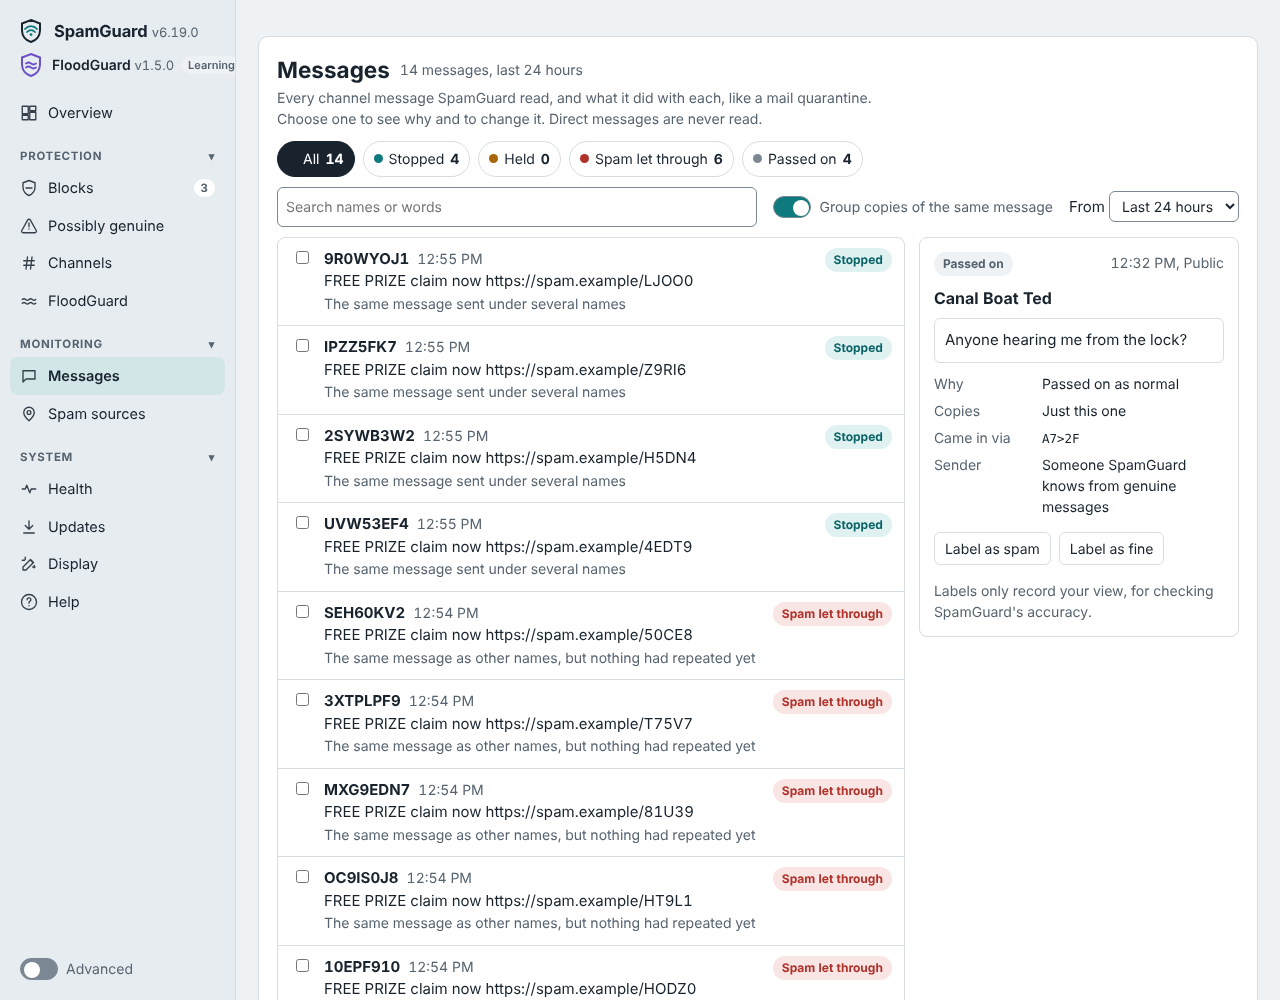
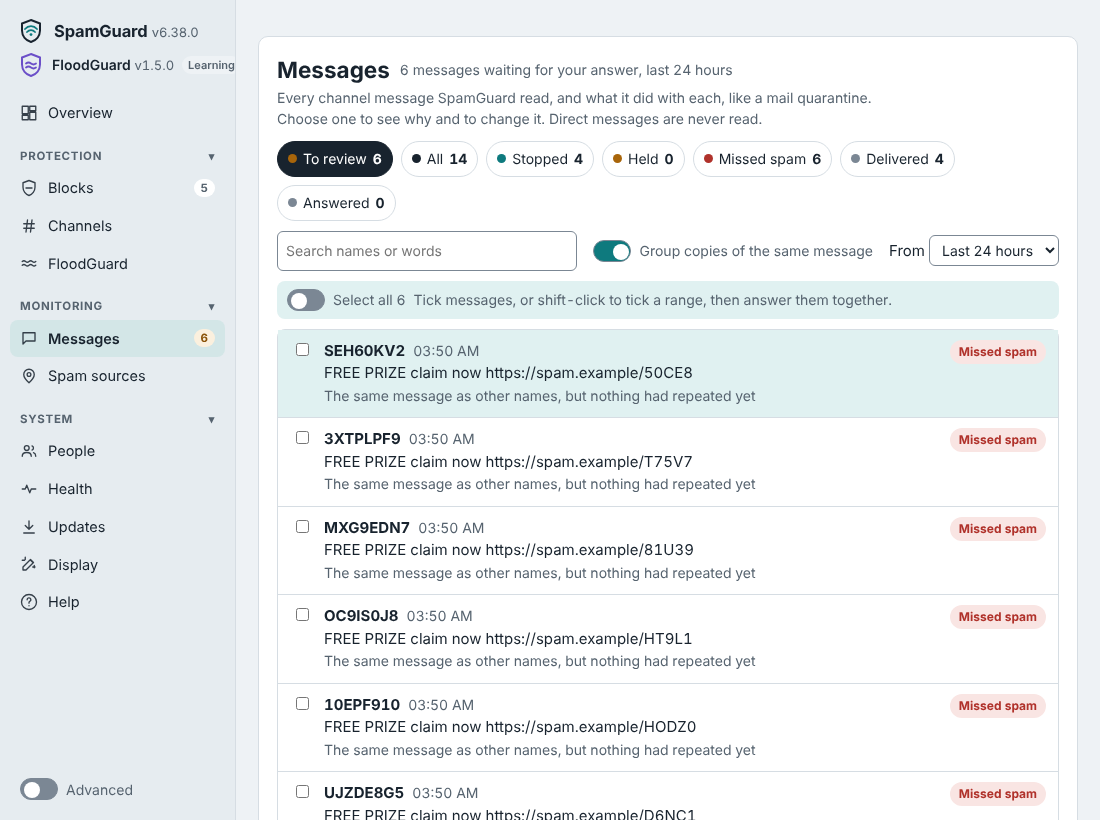
Docs: People, Spoofed, channels and export; new screenshots (#98)
Claude-Session: https://claude.ai/code/session_01Pgqm4Xa1efNsThaFFNfH7N

diff --git a/README.md b/README.md
@@ -42,6 +42,12 @@ Most MeshCore spam tools either hide spam on your own phone, while the mesh stil
 - **Copies and repeats:** copy-paste floods, one name repeating itself (quickly or all day), replays of old messages, and accidental double sends counted with the airtime they use.
 - **Ways round a filter:** made-up codes on the end, rotating mentions, the same link reworded, bursts, link campaigns across names, and copied names.
 - **Lockdown:** in a heavy attack, only known people get through for a while.
+- **Copied names:** answer **Spoofed** on a message that uses a real person's name; the copy is dealt with and the real person is left alone.
+
+**People and channels**
+- **People page:** who SpamGuard knows, how each name usually reaches you, and a plain-words standing for each. Throwaway names drop off by themselves, and a name you doubt can be put **on watch** and comes off again on its own.
+- **Every channel or one:** your own blocks and mutes can cover every channel, and each channel has its own **Block spam here** switch.
+- **Two repeaters, one set of decisions:** export your blocks and exceptions from one SpamGuard and import them into another.
 
 **FloodGuard: airtime**
 - **Floods of any packet type**, judged by how busy the radio is, not who sent them. Direct messages and known people always get through.
@@ -53,7 +59,7 @@ Most MeshCore spam tools either hide spam on your own phone, while the mesh stil
 **Help with settings**
 - **Settings advisor:** once it has seen a few settled days of your traffic, it suggests a protection level and which experiments are worth switching on, with the reason. It changes nothing by itself unless you switch on **Auto** under the slider, which then moves the level in small steps (tightening quickly, loosening slowly, never above a ceiling you can set, and stopping the moment you drag the slider yourself). Moving the slider only previews a level; an **Apply** button saves it, so a stray touch on a phone can't change it.
 - **Bots kept off Public and repeat sends stopped**, on by default, both with a switch in Settings.
-- **Experimental features**, hidden until you ask for them. Each is off by default. Today: spot copied names, and spot reworded spam from your own marks.
+- **Experimental features**, hidden until you ask for them. Each is off by default. Today they include spotting copied names, spotting reworded spam from your own marks, and a note on whether a route looks genuine.
 
 **Principles**
 - **Spam, not opinions:** it stops how spam is sent, never what people say.
@@ -62,6 +68,8 @@ Most MeshCore spam tools either hide spam on your own phone, while the mesh stil
 ![SpamGuard's Overview: mode, protection level and the spam numbers, each of which opens the matching messages (example data)](docs/screenshot-overview.png)
 
 ![Messages: every channel message in one quarantine list, with what SpamGuard did and why (example data)](docs/screenshot-messages.png)
+
+![People: everyone SpamGuard has heard, with a plain-words standing for each (example data)](docs/screenshot-people.png)
 
 ![The protection level slider, with what each level would have held on this repeater's own traffic (example data)](docs/screenshot-level.png)
 
@@ -125,6 +133,10 @@ How well does it work, and what does it get wrong? See the [test results](docs/p
 | Get a suggestion for your settings | Open **Settings advisor** on the Overview |
 | Make it gentler or tougher | Slide the **Protection level** on the Overview; open "What this level would have done" to see the effect on your own traffic |
 | Stop something it missed | In **Messages**, open it and press **Spam** |
+| Someone is using a real person's name | In **Messages**, open the message and press **Spoofed** |
+| See who SpamGuard knows, trust or doubt someone | Open **People**: search, filter, then **Trust**, **Put on watch** or **Forget** |
+| Read a channel without blocking on it | **Channels**: switch off **Block spam here** for that channel |
+| Copy your decisions to another SpamGuard | Advanced > Settings: **Export** on one, **Import** on the other |
 | Ride out a heavy attack | Press **Lockdown** at the bottom of Blocks (30 min to 2 hours, ends by itself) |
 | See where spam comes from | Open **Spam sources** in the menu |
 | Pause all blocking | Press **Pause** on the Overview |

diff --git a/docs/glossary.md b/docs/glossary.md
@@ -16,6 +16,8 @@ MeshCore radios pass messages on for each other: a message sent on a **channel**
 | **Unscoped** | A flood packet sent without a region. `flood.max.unscoped` is MeshCore's limit on how many hops those may travel; FloodGuard keeps the same kind of limit. |
 | **Made-up name / rotating identity** | A spammer using a new random name (such as UD6DWREK) for each message, or a repeater that keeps changing its ID, so it can't simply be blocked by name. |
 | **Known people** | Names SpamGuard has seen sending genuine messages. They are let through blocks meant for spam. |
+| **On watch** | A known name you, or SpamGuard, have doubts about. It is treated like a stranger for a while and comes off watch by itself after normal messages. Nothing is held just for being on watch. |
+| **Spoofed (copied name)** | Someone sending under a real person's name. Answering **Spoofed** deals with the copy without blocking the real person. |
 | **Rules (policy)** | openHop's list of what to pass on and what to drop, kept in its `policy.yaml`. SpamGuard adds its own rules there and never changes yours. |
 | **Monitor / Protect** | Monitor only shows what SpamGuard would stop; Protect actually stops it. |
 | **Protection level** | One slider from Gentle to Tough: how firmly SpamGuard pushes back. |

diff --git a/ROADMAP.md b/ROADMAP.md
@@ -23,7 +23,7 @@ users report, so this is a direction rather than a promise. Suggestions are welc
 ## Later
 
 1. **More languages** for the web page.
-2. **Simpler sharing of settings** between repeater operators in the same area.
+2. **Simpler sharing of settings** between repeater operators in the same area. Export and import of your own decisions exists; live sync between repeaters may follow if operators want it.
 3. **Better flood reports** that help operators talk to the owner of the repeater a flood comes in through.
 
 ## What SpamGuard won't do
